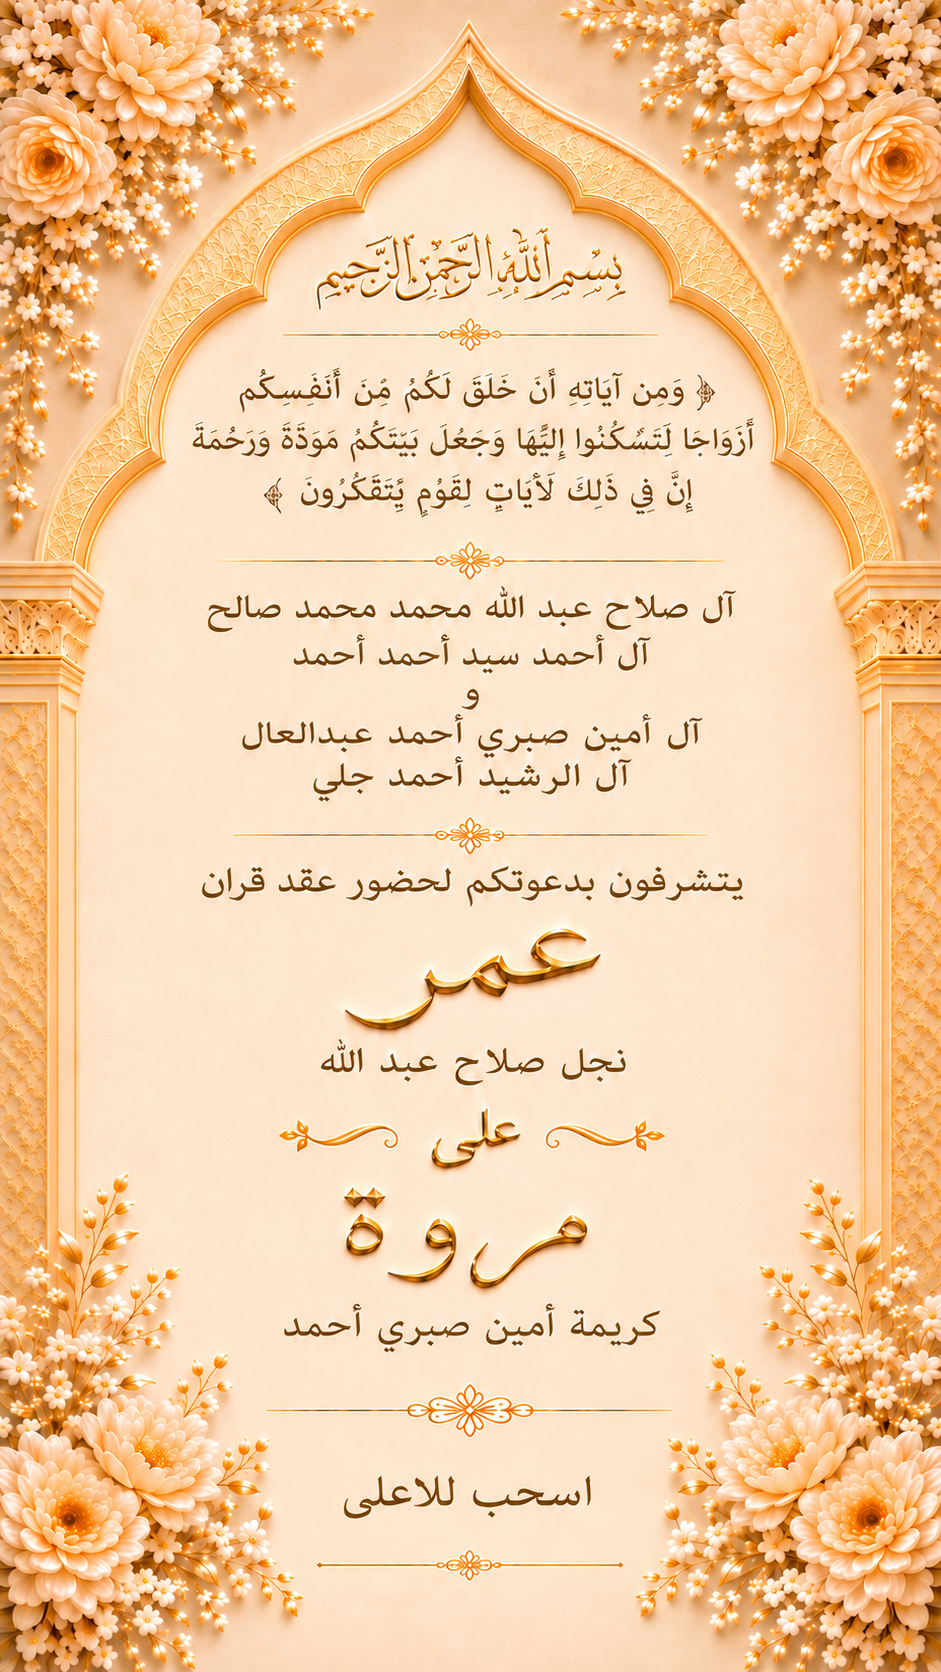
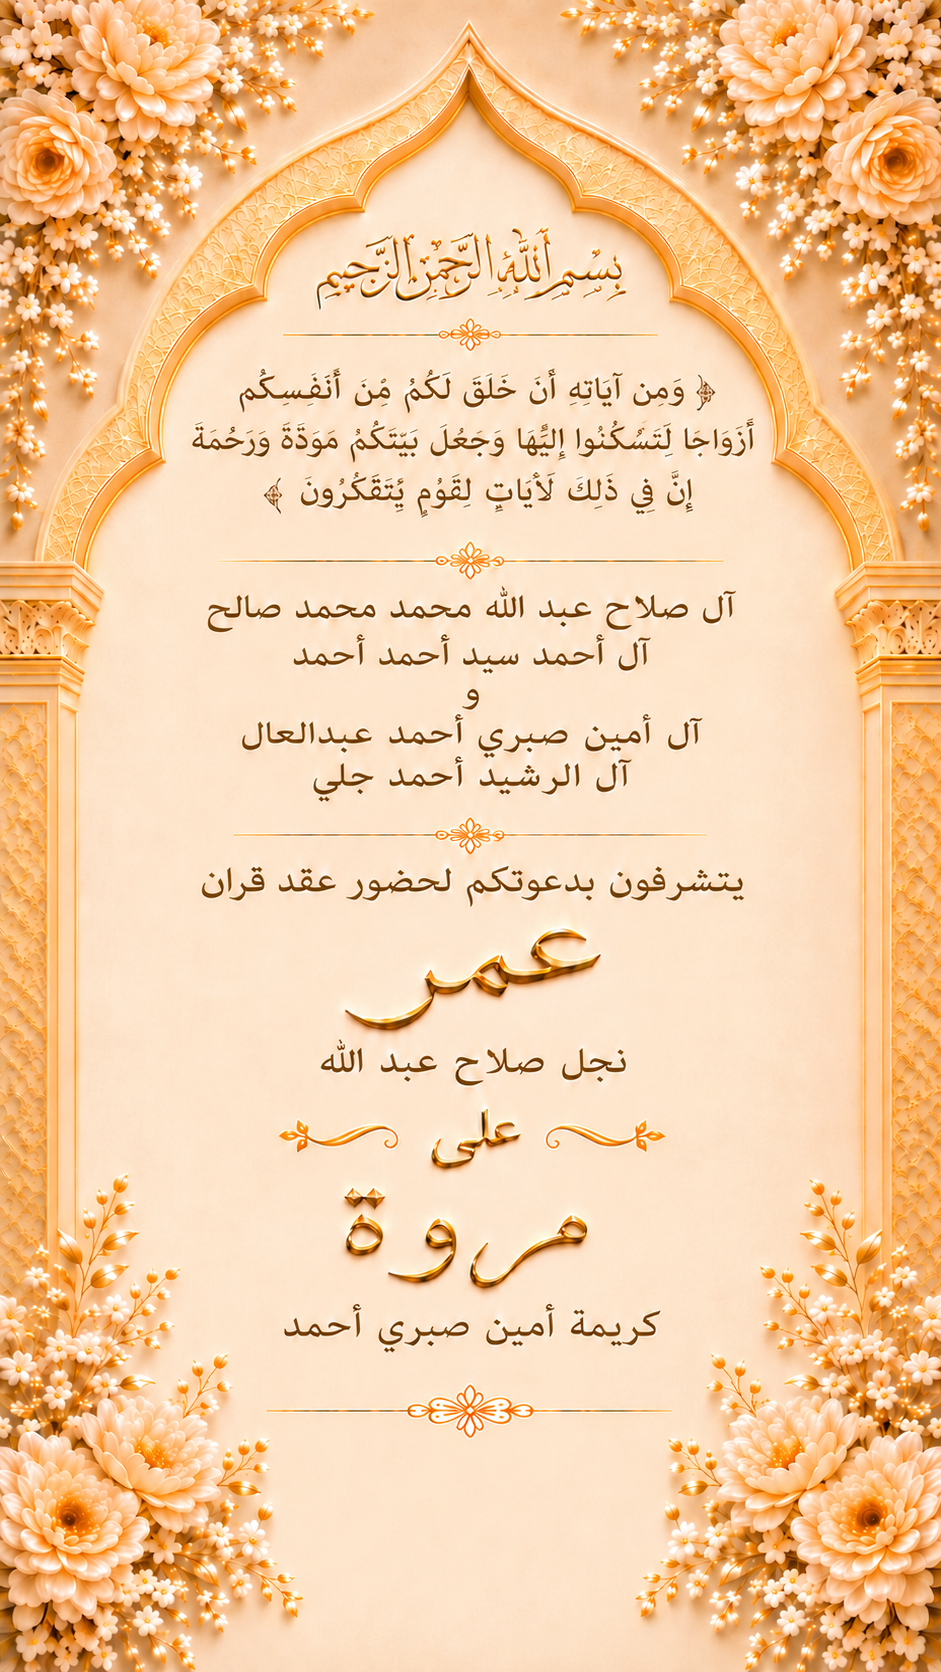
Swipe arrow GIFs

diff --git a/finishing-touches.css b/finishing-touches.css
@@ -45,12 +45,12 @@
 /* Previous ornamental pseudo-palms were visible over otherwise clean artwork. */
 .backdrop-palm, .backdrop-glow { display:none; }
 
-/* Hit area aligned to the ACTUAL replacement Scene 2 artwork:
-   button x=215..727 and y=1318..1390 on 941x1670. */
+/* Hit area aligned to the replacement Scene 2 artwork:
+   gold button x=214..727 and y=1348..1420 in the 941x1672 source image. */
 .continuum-map-hotspot {
-  left: 22.85%;
-  right: 22.75%;
-  top: 78.92%;
+  left: 22.74%;
+  right: 22.74%;
+  top: 80.62%;
   height: 4.31%;
   overflow: visible;
   cursor: pointer;
@@ -99,9 +99,9 @@
   inset:auto;
   left:50%;
   top:50%;
-  width:min(100%, calc(100svh * 941 / 1670));
+  width:min(100%, calc(100svh * 941 / 1672));
   height:auto;
-  aspect-ratio:941 / 1670;
+  aspect-ratio:941 / 1672;
   transform:translate(-50%,-50%);
   z-index:20;
   pointer-events:none;
@@ -136,7 +136,7 @@
   .edge-bleed--left { left:0; }
   .edge-bleed--right { right:0; }
   .map-placement {
-    width:min(100vw, calc(100svh * 941 / 1670));
+    width:min(100vw, calc(100svh * 941 / 1672));
   }
 }
 
@@ -146,4 +146,64 @@
 .ambient-scene,
 .edge-bleed {
   transition: none !important;
+}
+
+
+/* Three understated golden chevrons between the two user-marked red lines,
+   beneath the gold floral divider (not on top of it). Coordinates follow
+   the source artwork, so the arrows remain aligned on portrait phones. */
+.swipe-cue-placement {
+  position: absolute;
+  left: 50%;
+  top: 50%;
+  width: min(100%, calc(100svh * 941 / 1672));
+  height: auto;
+  aspect-ratio: 941 / 1672;
+  transform: translate(-50%, -50%);
+  pointer-events: none;
+  z-index: 22;
+}
+.swipe-cue {
+  position: absolute;
+  width: 7.4%;
+  height: 4.1%;
+  left: 50%;
+  top: 93.1%;
+  transform: translateX(-50%) translateY(5px);
+  opacity: 0;
+  visibility: hidden;
+  transition: opacity 380ms ease, transform 380ms ease, visibility 380ms;
+  pointer-events: none;
+  filter: drop-shadow(0 1px 2px rgba(255,249,231,.95));
+}
+.swipe-cue.is-visible {
+  opacity: .9;
+  visibility: visible;
+  transform: translateX(-50%) translateY(0);
+}
+.swipe-cue svg { width: 100%; height: 100%; display: block; overflow: visible; }
+.swipe-chevron {
+  fill: none;
+  stroke: #b4782a;
+  stroke-width: 8;
+  stroke-linecap: round;
+  stroke-linejoin: round;
+  opacity: .15;
+  transform-box: fill-box;
+  transform-origin: center center;
+}
+.swipe-cue.is-visible .swipe-chevron {
+  animation: luxury-swipe-chevron 1.35s ease-in-out infinite;
+}
+.swipe-cue.is-visible .swipe-chevron--1 { animation-delay: -0.87s; }
+.swipe-cue.is-visible .swipe-chevron--2 { animation-delay: -0.56s; }
+.swipe-cue.is-visible .swipe-chevron--3 { animation-delay: -0.25s; }
+@keyframes luxury-swipe-chevron {
+  0%,100% { opacity: .12; transform: translateY(5px); }
+  35%,65% { opacity: .95; transform: translateY(-3px); }
+}
+@media (prefers-reduced-motion: reduce) {
+  .swipe-cue,
+  .swipe-cue.is-visible { transition: none; }
+  .swipe-cue.is-visible .swipe-chevron { animation: none; opacity: .87; }
 }

diff --git a/script.js b/script.js
@@ -99,11 +99,13 @@
   );
   const dots = [...document.querySelectorAll('[data-progress-dot]')];
   const hint = document.getElementById('sceneHint');
+  const swipeCue = document.getElementById('swipeCue');
 
-  // Automatic presentation: holds of 12 / 5 / 5 seconds, then loops.
+  // Automatic presentation: holds of 12 / 8 / 8 seconds, then loops.
   // The existing scroll-driven presentation remains available immediately
   // when a visitor swipes, wheels, or uses the keyboard.
-  const SCENE_HOLD_MS = [12000, 5000, 5000];
+  const SCENE_HOLD_MS = [12000, 8000, 8000];
+  const SWIPE_CUE_MS = 3000;
   const TRANSITION_MS = 1300;
   const MANUAL_IDLE_MS = 12000;
   const reducedMotion = window.matchMedia('(prefers-reduced-motion: reduce)');
@@ -112,6 +114,7 @@
   let currentScene = 0;
   let currentWeights = [1, 0, 0];
   let holdTimer = null;
+  let cueTimer = null;
   let resumeTimer = null;
   let fadeFrame = null;
   let frameId = null;
@@ -184,6 +187,9 @@
   function stopAutoTimers() {
     window.clearTimeout(holdTimer);
     holdTimer = null;
+    window.clearTimeout(cueTimer);
+    cueTimer = null;
+    swipeCue?.classList.remove('is-visible');
     if (fadeFrame !== null) window.cancelAnimationFrame(fadeFrame);
     fadeFrame = null;
   }
@@ -200,11 +206,23 @@
   function scheduleHold() {
     stopAutoTimers();
     if (!autoMode || document.hidden) return;
-    holdTimer = window.setTimeout(advanceAutoScene, SCENE_HOLD_MS[currentScene]);
+    const duration = SCENE_HOLD_MS[currentScene];
+    // Display the cue only over Scenes 1 and 2, and only in their last 3 seconds.
+    if (currentScene < 2) {
+      cueTimer = window.setTimeout(() => {
+        if (autoMode && !document.hidden && currentScene < 2) {
+          swipeCue?.classList.add('is-visible');
+        }
+      }, duration - SWIPE_CUE_MS);
+    }
+    holdTimer = window.setTimeout(advanceAutoScene, duration);
   }
 
   function advanceAutoScene() {
     if (!autoMode || document.hidden) return;
+    window.clearTimeout(cueTimer);
+    cueTimer = null;
+    swipeCue?.classList.remove('is-visible');
     const from = currentScene;
     const to = (from + 1) % 3;
     const startWeights = [...currentWeights];

diff --git a/index.html b/index.html
@@ -58,6 +58,17 @@
               <span class="map-button-visual" aria-hidden="true"></span>
             </a>
           </div>
+          <!-- Brief upward-swipe cue; only visible during the last 3 seconds
+               before an automatic transition from Scene 1 or Scene 2. -->
+          <div class="swipe-cue-placement" aria-hidden="true">
+            <div id="swipeCue" class="swipe-cue">
+              <svg viewBox="0 0 76 100" xmlns="http://www.w3.org/2000/svg" focusable="false" aria-hidden="true">
+                <path class="swipe-chevron swipe-chevron--1" d="M14 27 L38 7 L62 27" />
+                <path class="swipe-chevron swipe-chevron--2" d="M14 56 L38 36 L62 56" />
+                <path class="swipe-chevron swipe-chevron--3" d="M14 85 L38 65 L62 85" />
+              </svg>
+            </div>
+          </div>
           <div class="scene-progress" aria-hidden="true">
             <span class="scene-progress__dot is-active" data-progress-dot="0"></span>
             <span class="scene-progress__dot" data-progress-dot="1"></span>

diff --git a/README.md b/README.md
@@ -34,8 +34,8 @@ The `previews` directory includes static PNGs (not used by the website itself).
 ## Automatic scene rotation
 
 Once the original envelope-opening sequence finishes, the invitation advances
-automatically: Scene 1 for 12 seconds, Scene 2 for 5 seconds, Scene 3 for
-5 seconds, and repeats. Each change is a 1.3-second cross-fade.
+automatically: Scene 1 for 12 seconds, Scene 2 for 8 seconds, Scene 3 for
+8 seconds, and repeats. Each change is a 1.3-second cross-fade.
 
 Visitors can still scroll or swipe manually. A gesture pauses automatic
 rotation; after 12 seconds without interaction, rotation resumes from the
@@ -43,3 +43,11 @@ current scene. Rotation pauses when the browser tab is in the background.
 
 The Scene 2 Google Maps click target and pressed-state artwork are aligned
 with the current Scene 2 image. The destination URL remains unchanged.
+
+## Discreet swipe cue
+
+The Arabic "اسحب للأعلى" labels were removed from the Scene 1 and Scene 2 illustrations. A small, transparent-background, champagne-gold three-chevron CSS animation (modelled on the supplied reference GIF) appears only during the final 3 seconds of each automatic hold. It is not displayed on Scene 3, during the envelope opening, or while a visitor manually scrolls. Scene timings are 12 / 8 / 8 seconds; cross-fades and automatic opening are unchanged.
+
+
+### Final position alignment
+Scenes 1 and 2 use the supplied updated image assets (red annotation marks removed). The three gold swipe chevrons display in the clear area below each final floral divider, and the Scene 2 Google Maps hit area and pressed-face graphic are aligned with the moved button. All timing and transitions remain unchanged.
